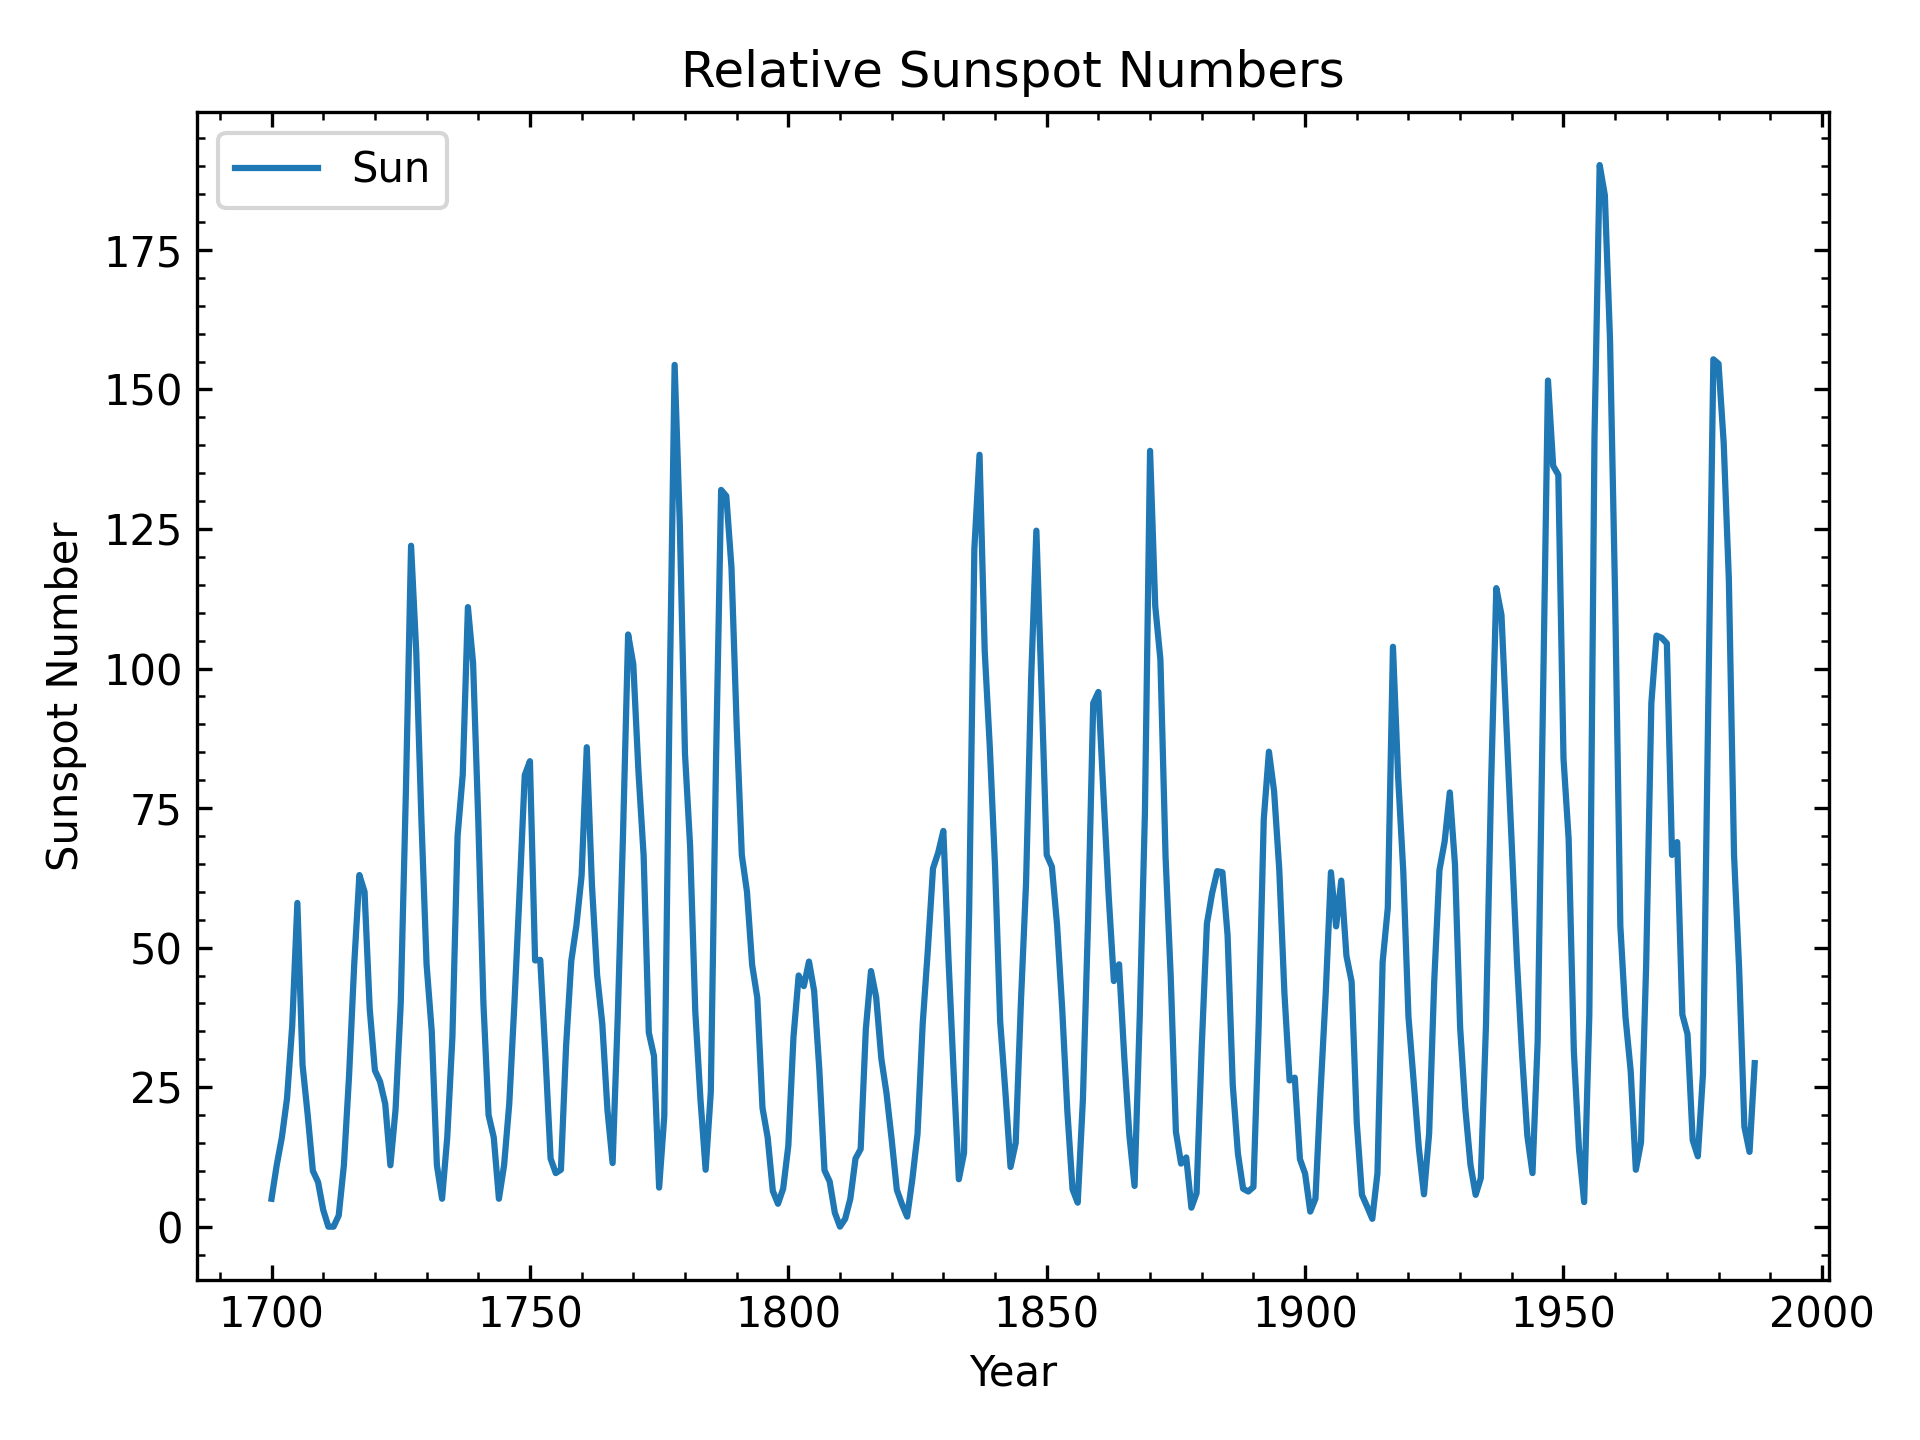
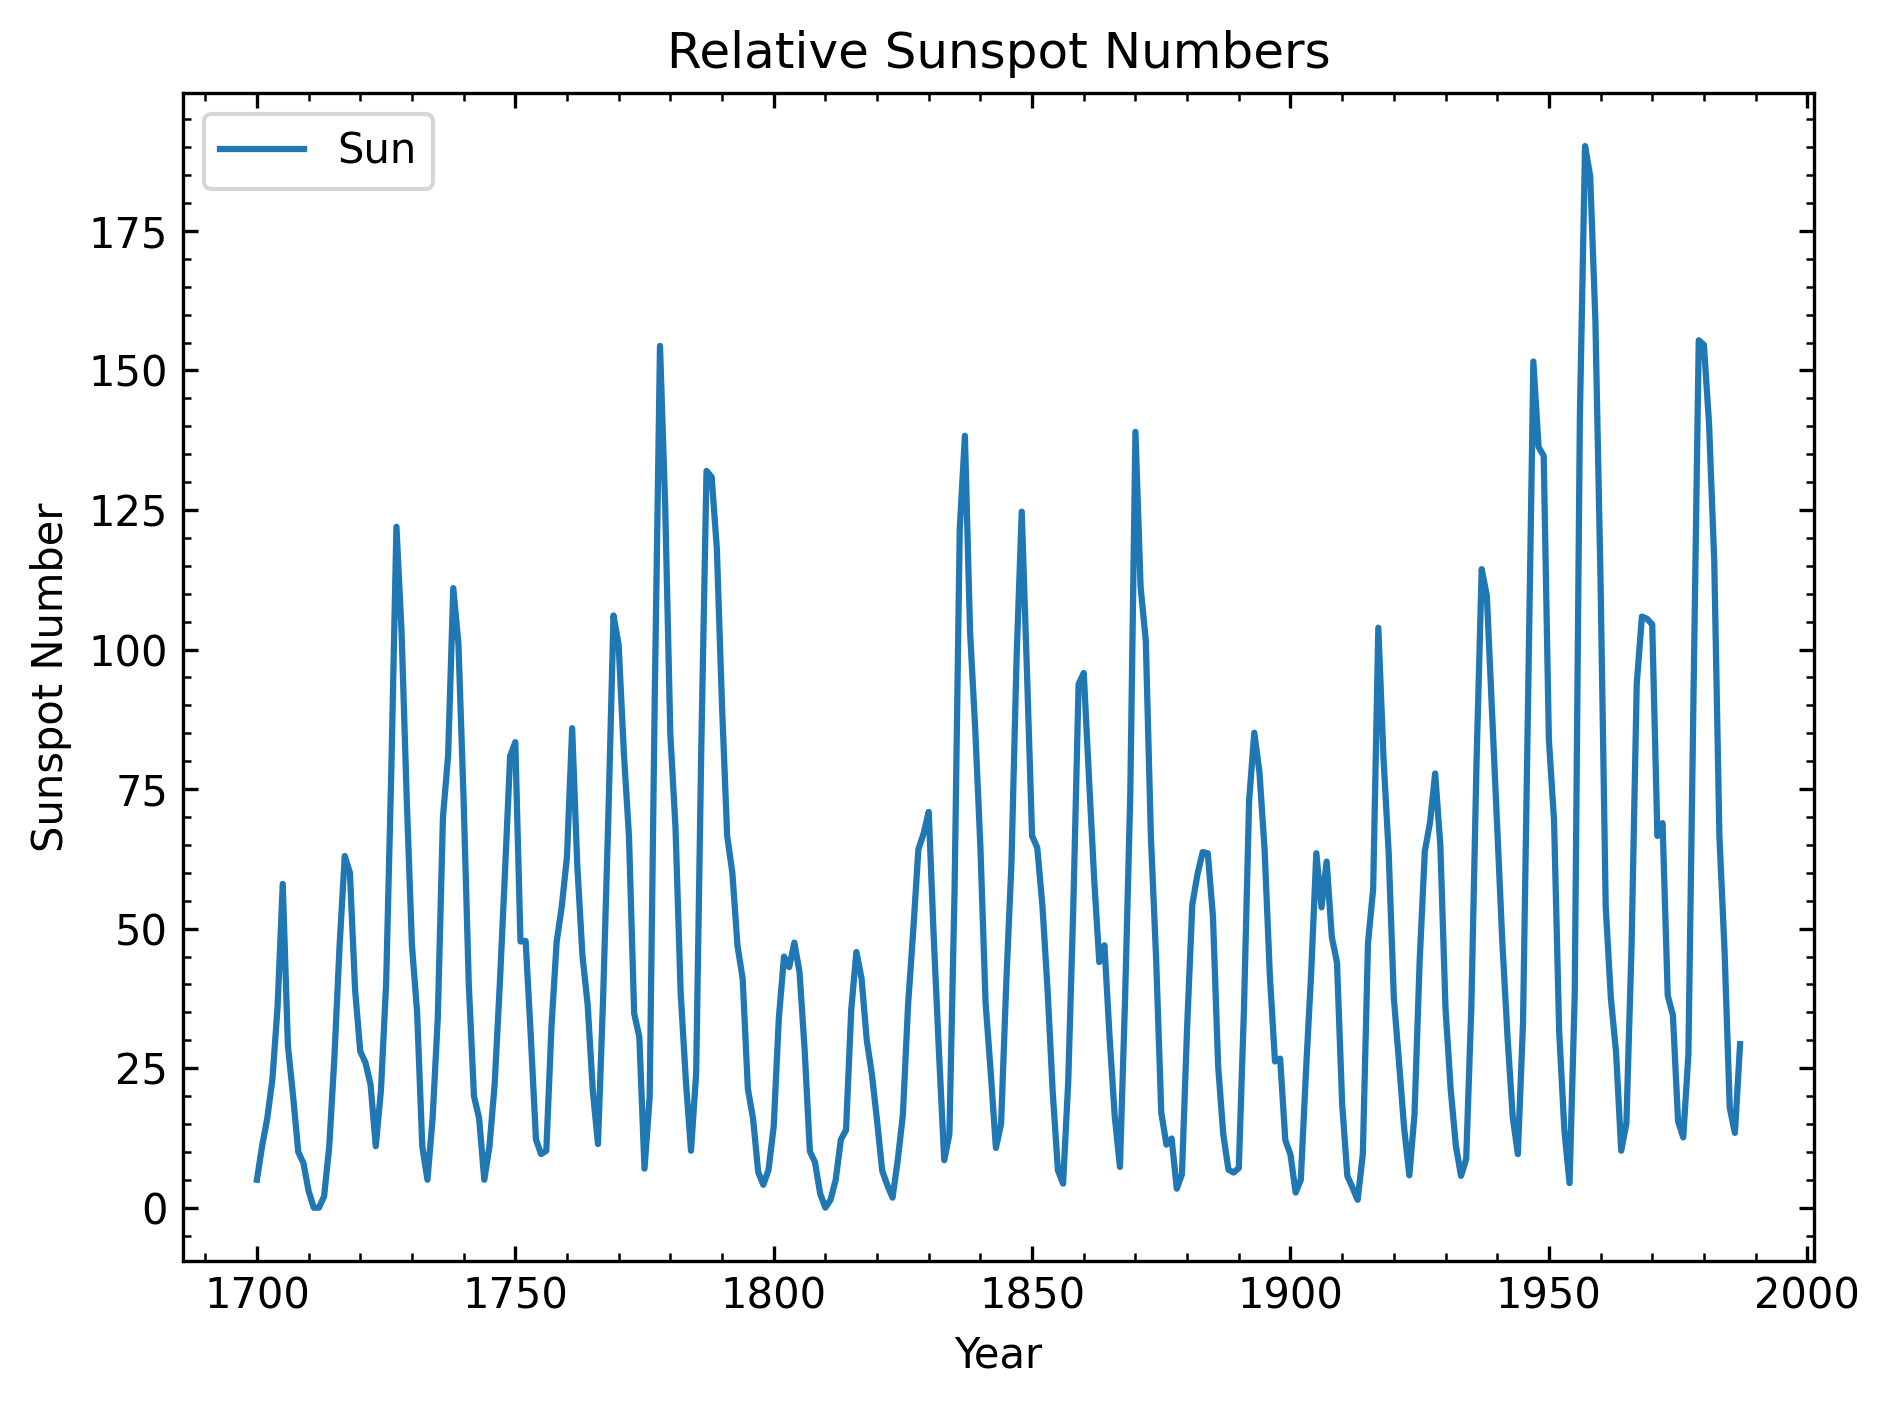
improved ticks

Changed region(s): [[0.0, 0.0306, 0.9677, 0.9787]]

diff --git a/subplot-examples.py b/subplot-examples.py
@@ -13,16 +13,6 @@ x = np.arange(0, 100, 0.1, dtype=float)
 y1 = np.sin(x)
 y2 = np.cos(x)
 
-plt.plot(x,y1, label='sin(s)')
-plt.plot(x,y2, label='cos(x)')
-plt.axhline(y=0, color='black', linewidth=0.8)
-plt.xlabel('x')
-plt.ylabel('y')
-plt.ylim(-1.5,+1.5)
-plt.legend()
-plt.savefig('subplot-example0.png',dpi=300)
-plt.show()
-
 #------------------------------
 # Example-1 for making subplots
 #------------------------------
@@ -44,7 +34,7 @@ plt.xlabel('x')
 plt.ylabel('y2')
 plt.ylim(-1.8,+1.8)
 plt.legend()
-plt.savefig('subplot-example1.png',dpi=300)
+plt.savefig('subplot-example1.png', bbox_inches='tight', pad_inches=0.1,dpi=300)
 plt.show()
 
 
@@ -84,7 +74,7 @@ ax[1].legend()
 
 # Layout, save, show
 fig.tight_layout()
-fig.savefig('subplot-example2.png', dpi=300)
+fig.savefig('subplot-example2.png', bbox_inches='tight', pad_inches=0.1, dpi=300)
 plt.show()
 
 #------------------------------
@@ -140,5 +130,5 @@ fig.text(0.04, 0.5, r'$Amplitude$', va='center', rotation='vertical')
 
 # Layout
 plt.tight_layout(rect=[0.06, 0.06, 1, 0.96])
-fig.savefig('subplot-example3.png', dpi=300)
+fig.savefig('subplot-example3.png', bbox_inches='tight', pad_inches=0.1, dpi=300)
 plt.show()

diff --git a/RealisticPlot.py b/RealisticPlot.py
@@ -1,5 +1,12 @@
 import numpy as np
 import matplotlib.pyplot as plt
+#font and axis equation setup using LATEX
+font = {'family': 'serif',
+        'color':  'black',
+        'weight': 'normal',
+        'size': 12,
+        }
+plt.rcParams.update(plt.rcParamsDefault)
 
 x=np.linspace(-np.pi,np.pi,101)
 f=np.ones_like(x)
@@ -13,9 +20,10 @@ plt.plot(x,f,'b-',lw=3,label='f(x)')
 plt.plot(x,y1,'c--',lw=2,label='two terms')
 plt.plot(x,y2,'r-.',lw=2,label='four terms')
 plt.plot(x, y3,'b:',lw=2,label='six terms')
-plt.legend(loc='best')
 plt.xlabel('x',style='italic')
 plt.ylabel('partial sums',style='italic')
 plt.suptitle('Partial sums for Fourier series of f(x)', size=10,weight='bold')
-plt.savefig('RealisticPlot.png',dpi=300)
+plt.legend(loc='best')
+plt.tight_layout()
+plt.savefig('RealisticPlot.png', bbox_inches='tight', pad_inches=0.1,dpi=300)
 plt.show()

diff --git a/histogram.py b/histogram.py
@@ -1,5 +1,12 @@
 import numpy as np
 import matplotlib.pyplot as plt
+#font and axis equation setup using LATEX
+font = {'family': 'serif',
+        'color':  'black',
+        'weight': 'normal',
+        'size': 12,
+        }
+plt.rcParams.update(plt.rcParamsDefault)
 
 # Parameters
 mu, sigma = 100, 15
@@ -43,6 +50,6 @@ plt.tick_params(axis="y", which="minor", direction="in", right=True)
 plt.tick_params(axis="y", which="major", direction="in", right=True, labelright=False, left=True, labelleft=True)
 plt.tight_layout()
 plt.tight_layout()
-plt.savefig('histogram.png',dpi=300)
+plt.savefig('histogram.png', bbox_inches='tight', pad_inches=0.1,dpi=300)
 plt.show()
 

diff --git a/sunspot.py b/sunspot.py
@@ -26,5 +26,5 @@ plt.tick_params(axis="x", which="major", direction="in", top=True, labeltop=Fals
 plt.tick_params(axis="y", which="minor", direction="in", right=True)
 plt.tick_params(axis="y", which="major", direction="in", right=True, labelright=False, left=True, labelleft=True)
 plt.tight_layout()
-plt.savefig('sunspot.png',dpi=300)
+plt.savefig('sunspot.png', bbox_inches='tight', pad_inches=0.1,dpi=300)
 plt.show()
